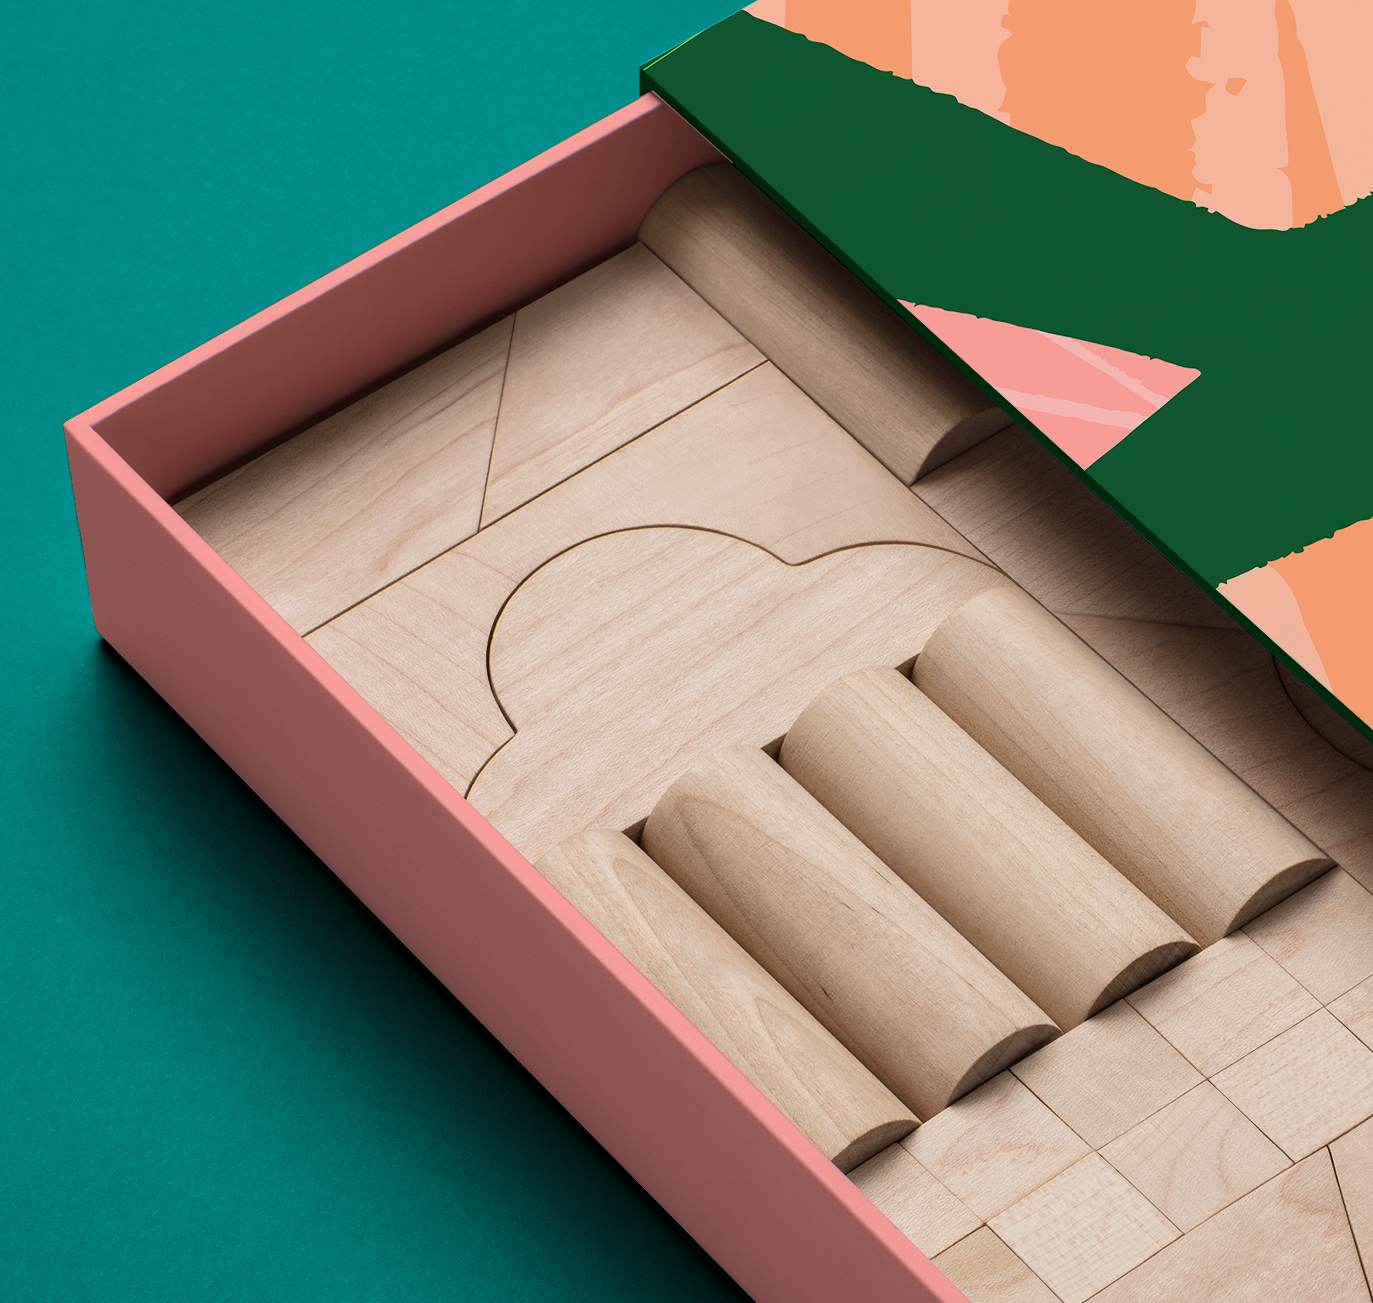
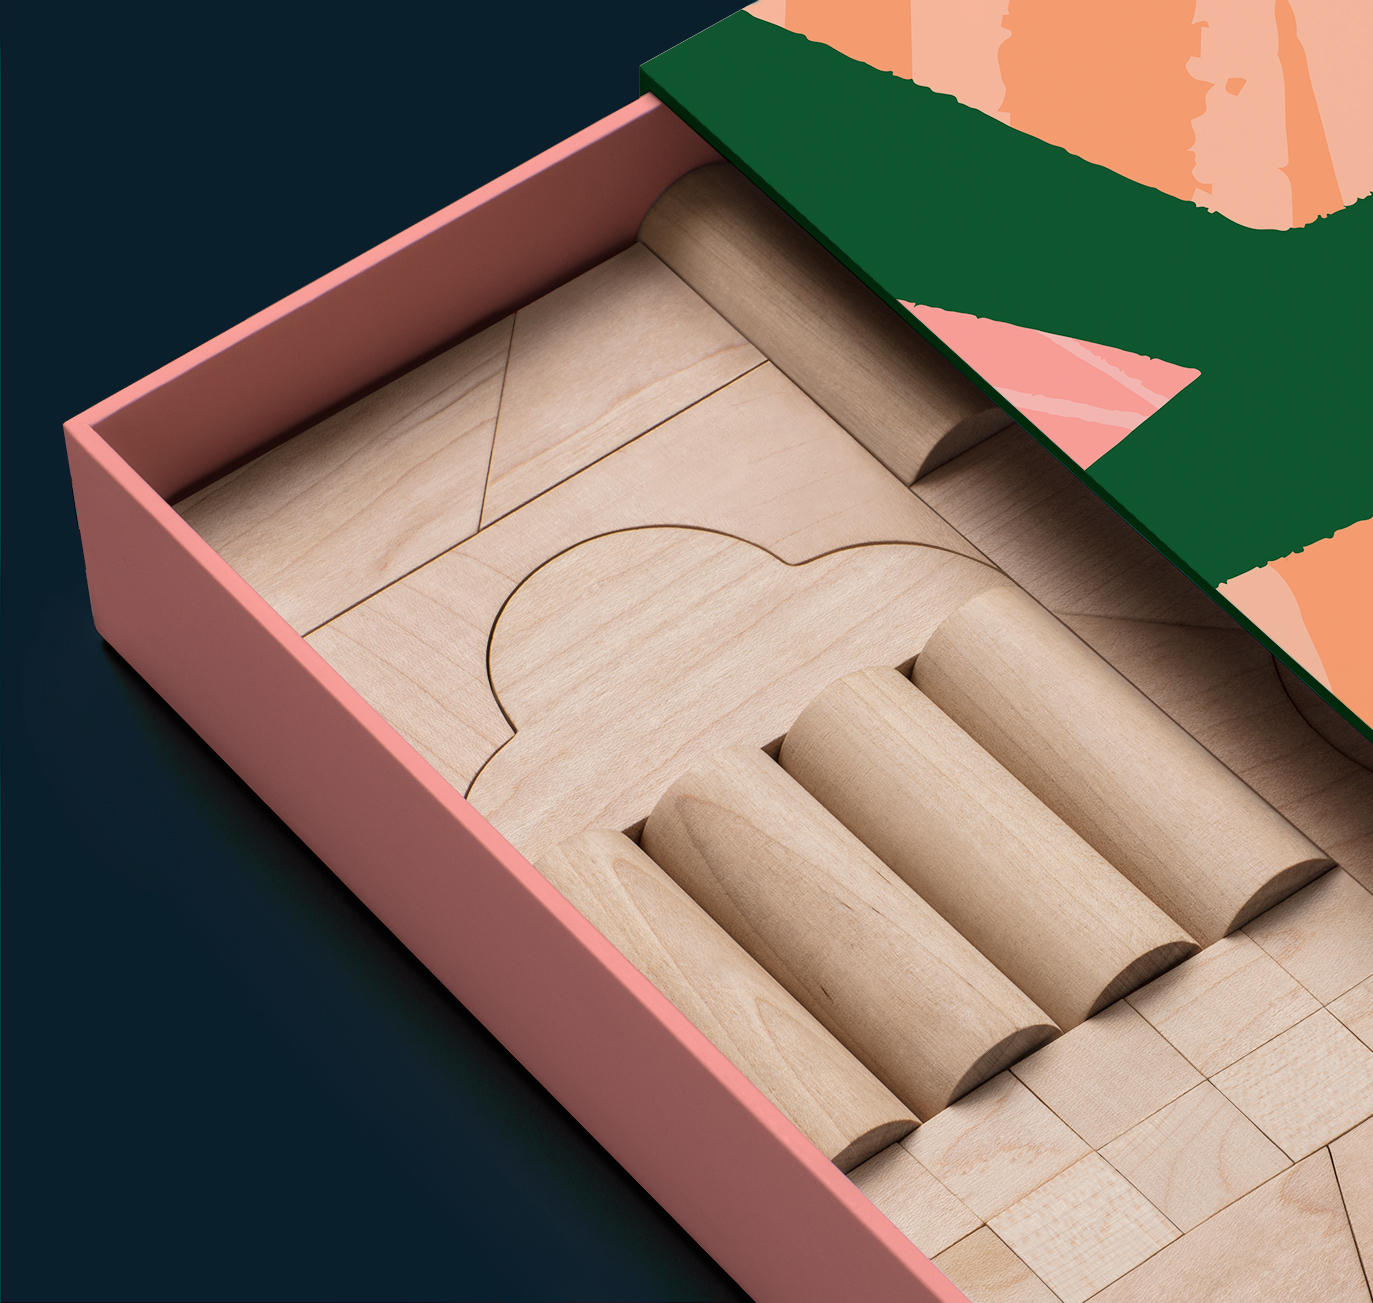
new images (with darker bags), some other styling. slowly getting more pro

Changed region(s): [[0.0, 0.0, 0.5506, 1.0]]

diff --git a/index.html b/index.html
@@ -154,7 +154,7 @@
       <section class="manifesto bg-pink" id="manifesto">
          <div class="scroll_to_top_button"><a>I work for Hasbro get me out of here</a></div>
             <div class="manifesto-header col-lg-8 mx-auto">
-               <h1><img style="width:1em;" src="img/logoicons_green.svg">&nbsp;builds on the legacy of stacking games. And yet, it’s a radical rethink of a stacking game can be.</h1>
+               <h1><img style="width:1em;" src="img/logoicons_green.svg">&nbsp;builds on the legacy of stacking games. And yet, it’s a radical rethink of what a stacking game can be.</h1>
                <img src="img/tom_line-01.svg">
 
             </div>
@@ -175,32 +175,26 @@
       </h5> </div>
            
          </div>
-            <div class="row mx-auto">
+      </section>
+      <section class="introducing bg-pink" id="manifesto-welcome">
+            <div class="manifesto-end col-sm-12 col-lg-8 mx-auto">
                <h5 class="mb-6">
-      Say hello to <strong>MISFITS</strong>.
+      Introducing <strong>MISFITS</strong>.
       </h5> </div>
-      </div>
-         </div>
-         <svg id="HELOOOOO" data-name="HELOOOOO" viewBox="0 0 1230 484" version="1.1">
+      <svg id="HELOOOOO" data-name="HELOOOOO" viewBox="0 0 1230 484" version="1.1">
             <title>Round up middle</title>
             <defs></defs>
-            <g id="Post-Festival-Homepage" stroke="none" stroke-width="1" fill="none" fill-rule="evenodd">
-               <g transform="translate(0.000000, -1717.000000)" id="BG-Shapes" fill="#dadad2">
+            <g stroke="none" stroke-width="1" fill="none" fill-rule="evenodd">
+               <g transform="translate(0.000000, -1717.000000)" class="bg-blue">
                   <g transform="translate(-210.000000, 0.000000)">
                      <polygon id="Yellow-Scrap-Copy" transform="translate(720.000000, 1958.996094) rotate(180.000000) translate(-720.000000, -1958.996094) " points="-3.41060513e-12 1842.99219 6.82121026e-13 1717 1440 1717 1408.04343 1745.60521 1045.29818 1959.25481 684.27907 2075.9568 364 2200.99219 310 2100.99219 170 1936.99219"></polygon>
                   </g>
                </g>
             </g>
          </svg>
-      </section>
-      <section class="introducing bg-grey" id="manifesto-welcome">
-            <div class="manifesto-end col-sm-12 col-lg-8 mx-auto">
-               <h5 class="mb-6">
-      Introducing <strong>MISFITS</strong>.
-      </h5> </div>
    </section>
       <!-- You can hook the "home button" to some JavaScript events or just remove it -->
-      <section class="bg-grey">
+      <section class="design-triptych bg-blue">
          <div class="features container-fluid">
             <div class="row">
                <div class="col-lg-4">
@@ -225,7 +219,7 @@
          </div>
          </div>
          </section>-->
-      <section class="bg-grey design-slider container-fluid">
+      <section class="bg-blue design-slider container-fluid">
          <div class="row">
             <!--<div class="col-lg-4">
                <div id="designGalleryIntro" class="header-content-green col col-sm-12">
@@ -249,8 +243,8 @@
                </div>
                   <div id="s1" class="slide ">
                   <div class="slider-text">
-                     <h1 style="margin-top:10px; line-height:0.7;">Try to find a more gorgeous game. </h1>
-                  <h1 class="green-header" style="line-height:0.6;">We’ll wait.</h1>
+                     <h1 style="margin-top:10px; line-height:0.9;">A thing of beauty is <br> fun forever.</h1>
+
                   <h5 class="subhead-smaller"> From the beautifully arranged, forty American beech <i>(Fagus grandifolia)</i> wood blocks to the elegant slip-and-drawer design. Every part of Misfits combines beautiful engineering and a designer's love for meticulous craft.</h5>
                   </div>
                   <div class="slider-img image-3"></div>

diff --git a/css/style.css b/css/style.css
@@ -121,7 +121,7 @@ a {
 
 .manifesto-text div {
     line-height: 1.125;
-    margin-bottom: 36px!important;
+    padding-bottom: 36px!important;
     z-index: 5; 
     justify-content: center;
     -webkit-box-align: center;
@@ -362,19 +362,22 @@ header.masthead {
 }
 
 .image-1 {
-  background-image: url('../img/c_Misfits_30082019_Shot_10_802.jpg');
-  background-position-x: -180px;
+  background-image: url('../img/b_Misfits_30082019_Shot_10_815_updatedwork_fullshot.jpg');
+  background-position-x: -200px;
+
+
 }
 
 .image-2{
-  background-image: url('../img/b_Misfits_30082019_Shot_10_815_updatedwork.jpg');
-    background-position-x: -240px;
-     overflow: hidden;
+  background-image: url('../img/b_Misfits_30082019_Shot_10_815_updatedwork_pk_crop.jpg');
+    background-position-x: -100px;
+    overflow: hidden;
+
   }
 
 .image-3 {
- background-image: url('../img/a_Misfits_30082019_Shot_2_095_darrenmashup.jpg');
- background-position-x: 80%;
+  background-image: url('../img/b_Misfits_30082019_Shot_10_815_updatedwork_fullshot.jpg');
+  background-position-x: -200px;
 }
 
 .image-4 {
@@ -483,7 +486,7 @@ img:not(.png) {
           float:left; 
           margin-right:20px;
           max-width:30%;
-    color: #10784f;
+    color: #fbdccb;
     position: relative;
     bottom: 0;
     left: 0;
@@ -705,7 +708,8 @@ background-color: #10784f!important;
   background: #dadad2;
 }
 .bg-blue {
-  background: #202533;
+  background: #19242f;
+  fill:#19242f ;
 }
 
 .splash-header{
@@ -883,8 +887,8 @@ section.manifesto {
   height: auto;
 }
 
-section.design-slider {
-  color: #10784f;
+section.design-triptych {
+  
 }
 
 section.download {
@@ -897,7 +901,7 @@ section.introducing {
   position: relative;
   width: 100%;
   min-height: 90vh;
-  color: #10784f;
+  color: #fbdccb;
 }
 
   section.download h2 {
